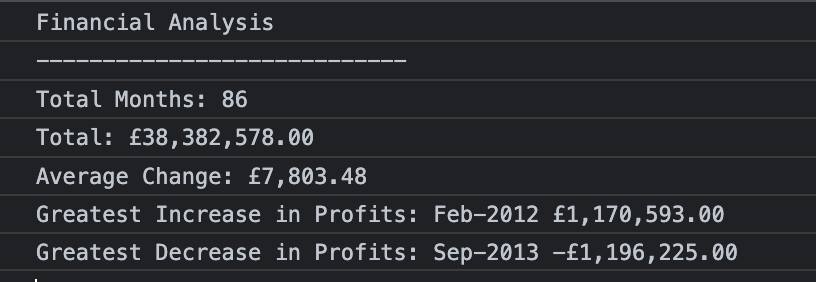
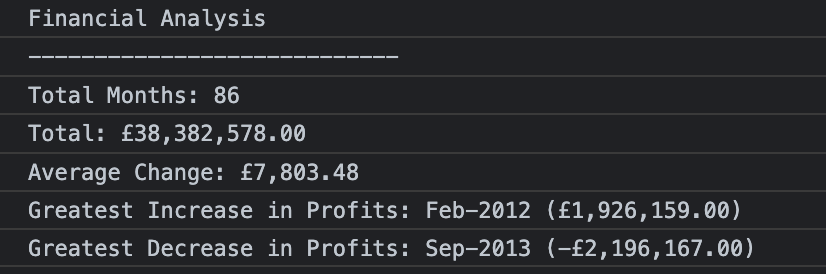
Fix output

diff --git a/assets/js/index.js b/assets/js/index.js
@@ -109,11 +109,11 @@ var totalProfitOrLoss = new Intl.NumberFormat('en-GB', {
 
 // 3. The average of the changes in Profit/Losses over the entire period
 var totalChange = profitOrLossArr[0];
-// var changesArr = [profitOrLossArr[0]];
+var changesArr = [profitOrLossArr[0]];
 for (var i = 0; i < profitOrLossArr.length - 1; i++) {
   var change = profitOrLossArr[i + 1] - profitOrLossArr[i];
   totalChange += change;
-  // changesArr.push(change);
+  changesArr.push(change);
 }
 
 var rawAvgChange = totalChange / totalMonths;
@@ -123,22 +123,22 @@ var avgChange = new Intl.NumberFormat('en-GB', {
 }).format(rawAvgChange);
 
 // 4. The greatest increase in profits (date and amount) over the entire period
-var rawMaxValue = Math.max(...profitOrLossArr);
+var rawMaxValue = Math.max(...changesArr);
 var maxValue = new Intl.NumberFormat('en-GB', {
   style: 'currency',
   currency: 'GBP',
 }).format(rawMaxValue);
-var maxDate = monthsArr[profitOrLossArr.indexOf(rawMaxValue)];
-var max = `${maxDate} ${maxValue}`;
+var maxDate = monthsArr[changesArr.indexOf(rawMaxValue)];
+var max = `${maxDate} (${maxValue})`;
 
 //5. The greatest decrease in profits (date and amount) over the entire period
-var rawMinValue = Math.min(...profitOrLossArr);
+var rawMinValue = Math.min(...changesArr);
 var minValue = new Intl.NumberFormat('en-GB', {
   style: 'currency',
   currency: 'GBP',
 }).format(rawMinValue);
-var minDate = monthsArr[profitOrLossArr.indexOf(rawMinValue)];
-var min = `${minDate} ${minValue}`;
+var minDate = monthsArr[changesArr.indexOf(rawMinValue)];
+var min = `${minDate} (${minValue})`;
 
 // Logged result
 console.log('Financial Analysis');
